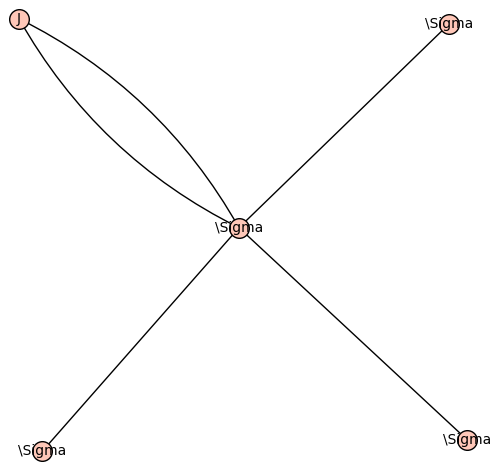
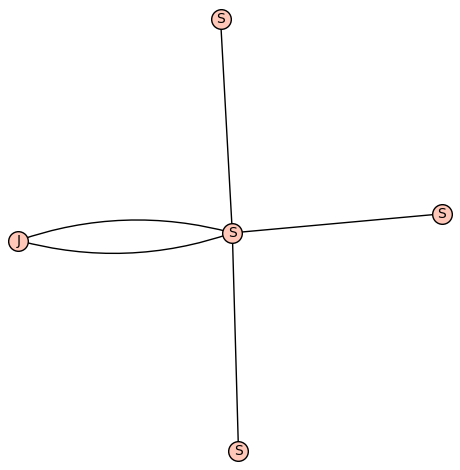
bugfixes

diff --git a/richelot_rm/richelot_jacobian_isogeny.py b/richelot_rm/richelot_jacobian_isogeny.py
@@ -201,9 +201,9 @@ def jacobian_to_jacobian_2_isogeny(kernel):
     G1, _ = gen1
     G2, _ = gen2
     if (G1[2] != 1 and G1[2] != 0):
-        G1 = G1 // G1[2]
+        G1 = G1 / G1[2]
     if (G2[2] != 1 and G2[2] != 0):
-        G2 = G2 // G2[2]
+        G2 = G2 / G2[2]
     
     G3 = h // (G1 * G2)
     M = Matrix(G.padded_list(3) for G in (G1,G2,G3))
@@ -237,9 +237,9 @@ def jacobian_to_jacobian_2_isogeny(kernel):
         g11, g10 = g1red[1], g1red[0]
         g21, g20 = g2red[1], g2red[0]
         # see above
-        Px = (g11*g11*p + g11*g10*s + g10*g10) * H1 * H1 \
-           + (2*g11*g21*p + (g11*g20+g21*g10)*s + 2*g10*g20) * H1 * H2 \
-           + (g21*g21*p + g21*g20*s + g20*g20) * H2 * H2
+        Px = (g11*g11*p + g11*g10*s + g10*g10) * (H1 * H1) \
+           + (2*g11*g21*p + (g11*g20+g21*g10)*s + 2*g10*g20) * (H1 * H2) \
+           + (g21*g21*p + g21*g20*s + g20*g20) * (H2 * H2)
 
         # Compute Y coordinates (non reduced, degree 3)
         assert V[2].is_zero()
@@ -257,7 +257,7 @@ def jacobian_to_jacobian_2_isogeny(kernel):
           - (v1*g11*s*p + 2*v1*g10*p + v0*g11*(s*s-2*p) + v0*g10*s)
         Py1 *= H1
         # coefficient of 1 is Gred1(xa) Gred1(xb) h1(x)^2 U(x)
-        Py0 = H1 * U * (g11*g11*p + g11*g10*s + g10*g10)
+        Py0 = H1 * H1 * U * (g11*g11*p + g11*g10*s + g10*g10)
 
         # Now reduce the divisor, and compute Cantor reduction.
         # Py2 * y^2 + Py1 * y + Py0 = 0
@@ -269,6 +269,7 @@ def jacobian_to_jacobian_2_isogeny(kernel):
 
         Dx = ((h_codomain - Py ** 2) // Px)
         Dy = (-Py) % Dx
+        assert (h_codomain - Dy**2) % Dx == 0, f"not div {(h_codomain - Dy**2) % Dx}"
         jac_divisor = codomain.jac([Dx, Dy])
         return JacobianPoint(jac_divisor)
     

diff --git a/tests/test_cgl_rm.py b/tests/test_cgl_rm.py
@@ -1,4 +1,5 @@
-from sage.all import GF, Matrix, VectorSpace, Integers, Graph
+from sage.all import GF, Matrix, VectorSpace, Integers, Graph, randint, set_random_seed
+from sage.graphs.graph_latex import check_tkz_graph
 
 from richelot_rm.product_point import ProductPoint
 from richelot_rm.richelot_product_isogenies import get_arbitrary_square_example
@@ -41,5 +42,35 @@ def test_square_rm():
     p = G.plot(vertex_labels=labels)
     p.save("square_vertex_neighbors_RM.png")
 
+
+def test_random_walk():
+    e = 11
+    p = 2**e * 3 - 1
+    r = e - 2
+    square = get_arbitrary_square_example(p)
+    E1, E2 = square.E1, square.E2
+    P2e_1, Q2e_1 = E1.torsion_basis(2**r)
+    P2e_2, Q2e_2 = E2(P2e_1), E2(Q2e_1)
+    torsion_generators = [
+        ProductPoint(P2e_1, E2(0)),
+        ProductPoint(E1(0), P2e_2),
+        ProductPoint(Q2e_1, E2(0)),
+        ProductPoint(E1(0), Q2e_2),
+    ]
+    current_vertex = RMVertex(
+        square, r, torsion_generators, golden_ratio_action_on_symplectic_torsion(2, r)
+    )
+    next_vertex = None
+    random_message = [randint(0, 4) for _ in range(r)]
+    graph_dict = {}
+    for step in range(r):
+        print(f"Step {step}: @ vertex {current_vertex.get_type()}")
+        neighbors = current_vertex.get_neighbors()
+        next_vertex = neighbors[random_message[step]]
+        graph_dict[current_vertex] = neighbors
+        current_vertex = next_vertex
+
 if __name__ == "__main__":
-    test_square_rm()
+    check_tkz_graph()
+    # test_square_rm()
+    test_random_walk()

diff --git a/richelot_rm/richelot_vertex_RM.py b/richelot_rm/richelot_vertex_RM.py
@@ -21,10 +21,7 @@ class RMVertex(RichelotVertex):
         super().__init__(g2_structure, two_torsion_generators)
 
     def _vector_to_large_torsion_point(self, vec):
-        generators = self.two_r_torsion_generators
-        modulus = 2**self.r
-        vec = [int(v) % modulus for v in vec]
-        components = [vec[i] * generators[i] for i in range(4)]
+        components = [int(vec[i]) * self.two_r_torsion_generators[i] for i in range(4)]
         return components[0] + components[1] + components[2] + components[3]
 
     def _get_all_two_kernels(self):
@@ -55,9 +52,12 @@ class RMVertex(RichelotVertex):
     def get_neighbors(self):
         neighbors_with_edges = self._compute_all_neighbors()
         neighbors = []
+        print("Weil pairing action:\n", self.weil_pairing_two_torsion_action)
         for neighbor, phi, W in neighbors_with_edges:            
             id_2 = identity_matrix(GF(2), 2)
+            # print(f"Neighbor \n{neighbor}\n W:\n{W}")
             A = W.transpose() * self.weil_pairing_two_torsion_action
+            # print(f"A:\n{A}")
             W_c = A.solve_right(id_2)
             assert W_c.transpose() * self.weil_pairing_two_torsion_action * W_c == 0, f"W_c isotropic check failed:\n {W_c}"
             C = W.augment(W_c)

diff --git a/richelot_rm/richelot_vertex.py b/richelot_rm/richelot_vertex.py
@@ -24,6 +24,9 @@ class RichelotVertex:
         Me = Matrix(GF(2), 4, 4)
         for i, P in enumerate(self.two_torsion_generators):
             for j, Q in enumerate(self.two_torsion_generators):
+                if i == j:
+                    Me[i, j] = 0
+                    continue
                 entry = P.weil_pairing(Q, 2)
                 if entry == 1:
                     Me[i, j] = 0
@@ -46,7 +49,7 @@ class RichelotVertex:
     
     def get_type(self):
         if self.g2_structure.is_product:
-            return R"\Pi" if self.invariants[0] != self.invariants[1] else R"\Sigma"
+            return R"P" if self.invariants[0] != self.invariants[1] else R"S"
         elif self.g2_structure.is_jacobian:
             return R"J"
         return "Error"
